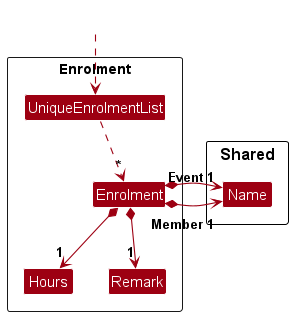
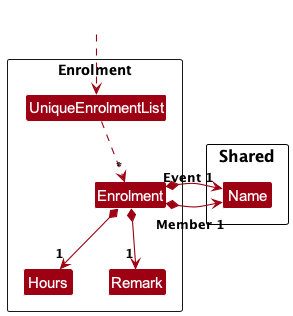
DG: Center class diagrams

diff --git a/docs/DeveloperGuide.md b/docs/DeveloperGuide.md
@@ -164,7 +164,7 @@ implementing this model.
 
 The class diagram below shows the current implementation of `Member` model.
 
-![MemberClassDiagram](images/MemberClassDiagram.png)
+<img src="images/MemberClassDiagram.png" width="500px" style="margin-left:120px">
 
 Every `Member` contains a `Name`, `Gender`, `Optional<Phone>`, `Optional<Email>`, `Optional<Address>`, `Optional<Hours>`, `Optional<Remark>` and a set of `Tags`. `UniqueMemberList` stores all unique instances of `Member`.
 
@@ -205,7 +205,7 @@ implementing this model.
 
 The `Event` and `UniqueEventList` classes are implemented as shown in the diagram below:
 
-![EventClassDiagram](images/EventClassDiagram.png)
+<img src="images/EventClassDiagram.png" width="500px" style="margin-left:120px">
 
 Every `Event` contains a `Name`, `Location`, `EventDate`, `Optional<Hours>`, `Optional<Remark>` and a set of `Tags`
 `UniqueEventList` stores all unique instances of `Event`.
@@ -248,7 +248,7 @@ implementing this model.
 #### Implementation
 The `Enrolment` and `UniqueEnrolmentList` classes are implemented as shown in the diagram below:
 
-<img src="images/EnrolmentClassDiagram.png" style="margin-left:258px">
+<img src="images/EnrolmentClassDiagram.png" style="margin-left:223px">
 
 `Enrolment` encapsulates the enrolment of a member into an event. It composes of the `Name` of the member and
 the `Name` of the event enrolled in, number of `Hours` they contributed, and a `Remark` to note for that
